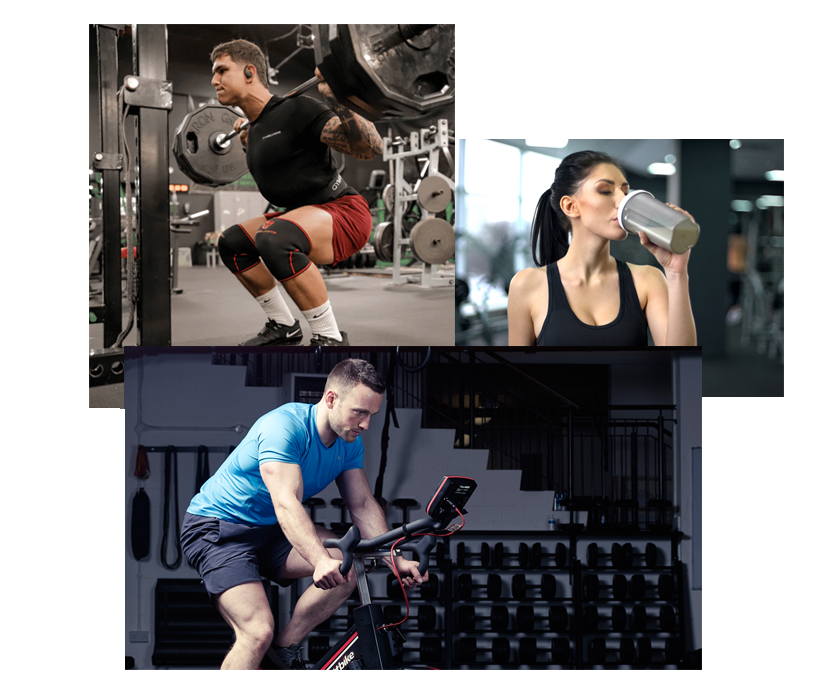
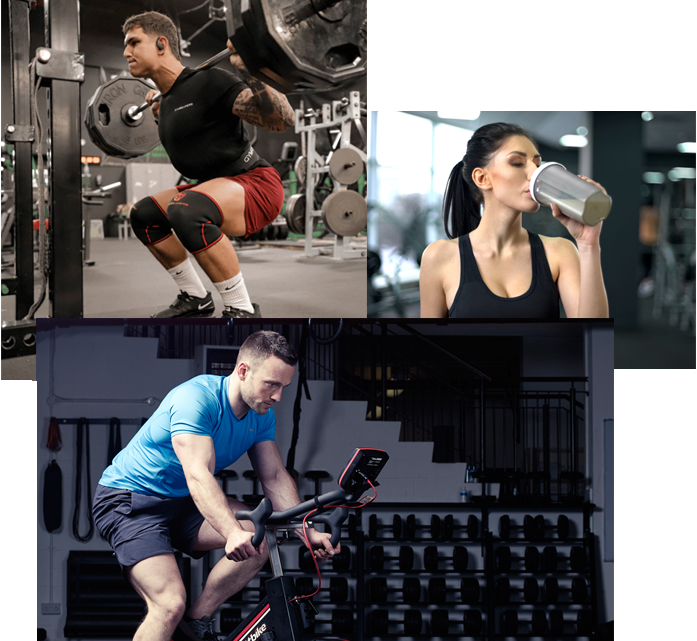
Working on Smaller Screen Responsiveness

diff --git a/Frontend/src/pages/Home.style-queries.css b/Frontend/src/pages/Home.style-queries.css
@@ -15,10 +15,6 @@
 
 /* 1520px */
 @media (max-width: 95em) {
-  .hero {
-    max-width: 95rem;
-  }
-
   .heading-primary {
     font-size: 2.6rem;
   }
@@ -26,10 +22,6 @@
 
 /* 1440px */
 @media (max-width: 90em) {
-  .hero {
-    max-width: 90rem;
-  }
-
   .heading-primary {
     font-size: 2.6rem;
   }
@@ -48,15 +40,20 @@
   }
 
   .hero {
-    max-width: 75rem;
+    padding: 0 3rem;
+    column-gap: 2rem;
+  }
+
+  .hero-text-box {
+    padding: 0;
+  }
+
+  .hero-image {
+    width: 100%;
   }
 
   .logos img {
     height: 8rem;
-  }
-
-  .heading-primary {
-    font-size: 2.6rem;
   }
 
   .highlight {
@@ -67,7 +64,34 @@
     font-size: 1rem;
   }
 
-  .highlight-image img {
+  .highlight-image {
     width: 80%;
+  }
+}
+
+/* 960px */
+@media (max-width: 60em) {
+  .grid {
+    column-gap: 2rem;
+  }
+
+  .hcontainer {
+    padding: 0 1.5rem;
+  }
+
+  .heading-primary {
+    font-size: 2.5rem;
+  }
+
+  .hero-description {
+    font-size: 1rem;
+  }
+
+  .logos img {
+    height: 7.5rem;
+  }
+
+  .highlight-image img {
+    width: 75%;
   }
 }

diff --git a/Frontend/src/pages/Home.style.css b/Frontend/src/pages/Home.style.css
@@ -58,13 +58,18 @@
   margin-right: 1.2rem;
 }
 
+.hero-image-div {
+  display: flex;
+  justify-content: center;
+}
+
 .hero-image {
-  width: 100%;
+  width: 90%;
 }
 
 /* Featured in Section */
 .section-featured-brands {
-  padding: 5.2rem 0 3.2rem 0;
+  padding-top: 5.2rem;
 }
 
 .logos {
@@ -159,9 +164,6 @@
 
 .type img {
   max-width: 100%;
-}
-
-.type-content {
 }
 
 .type-tags {
